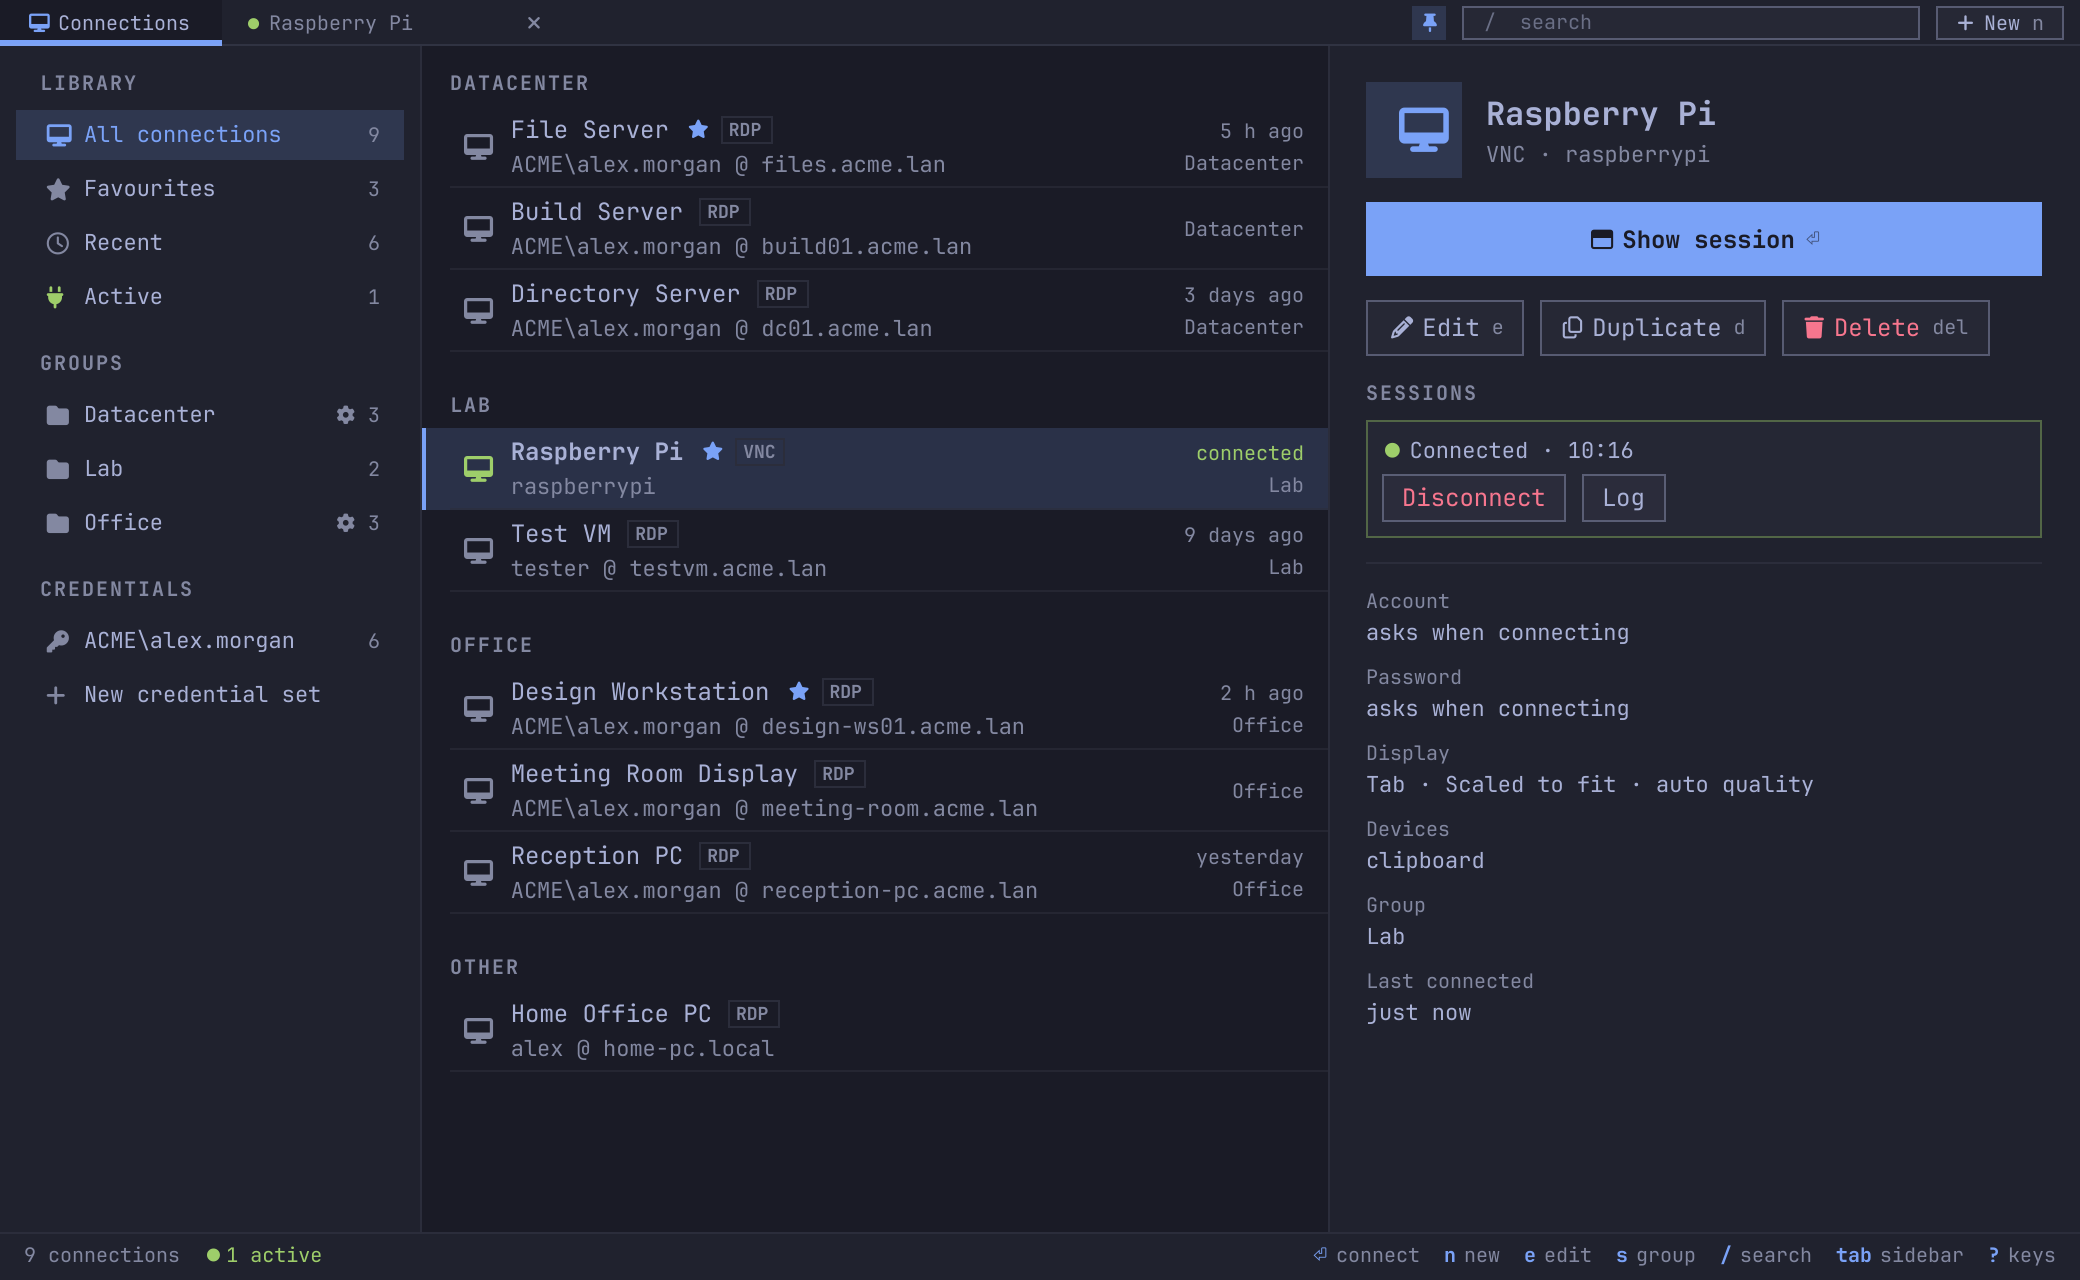
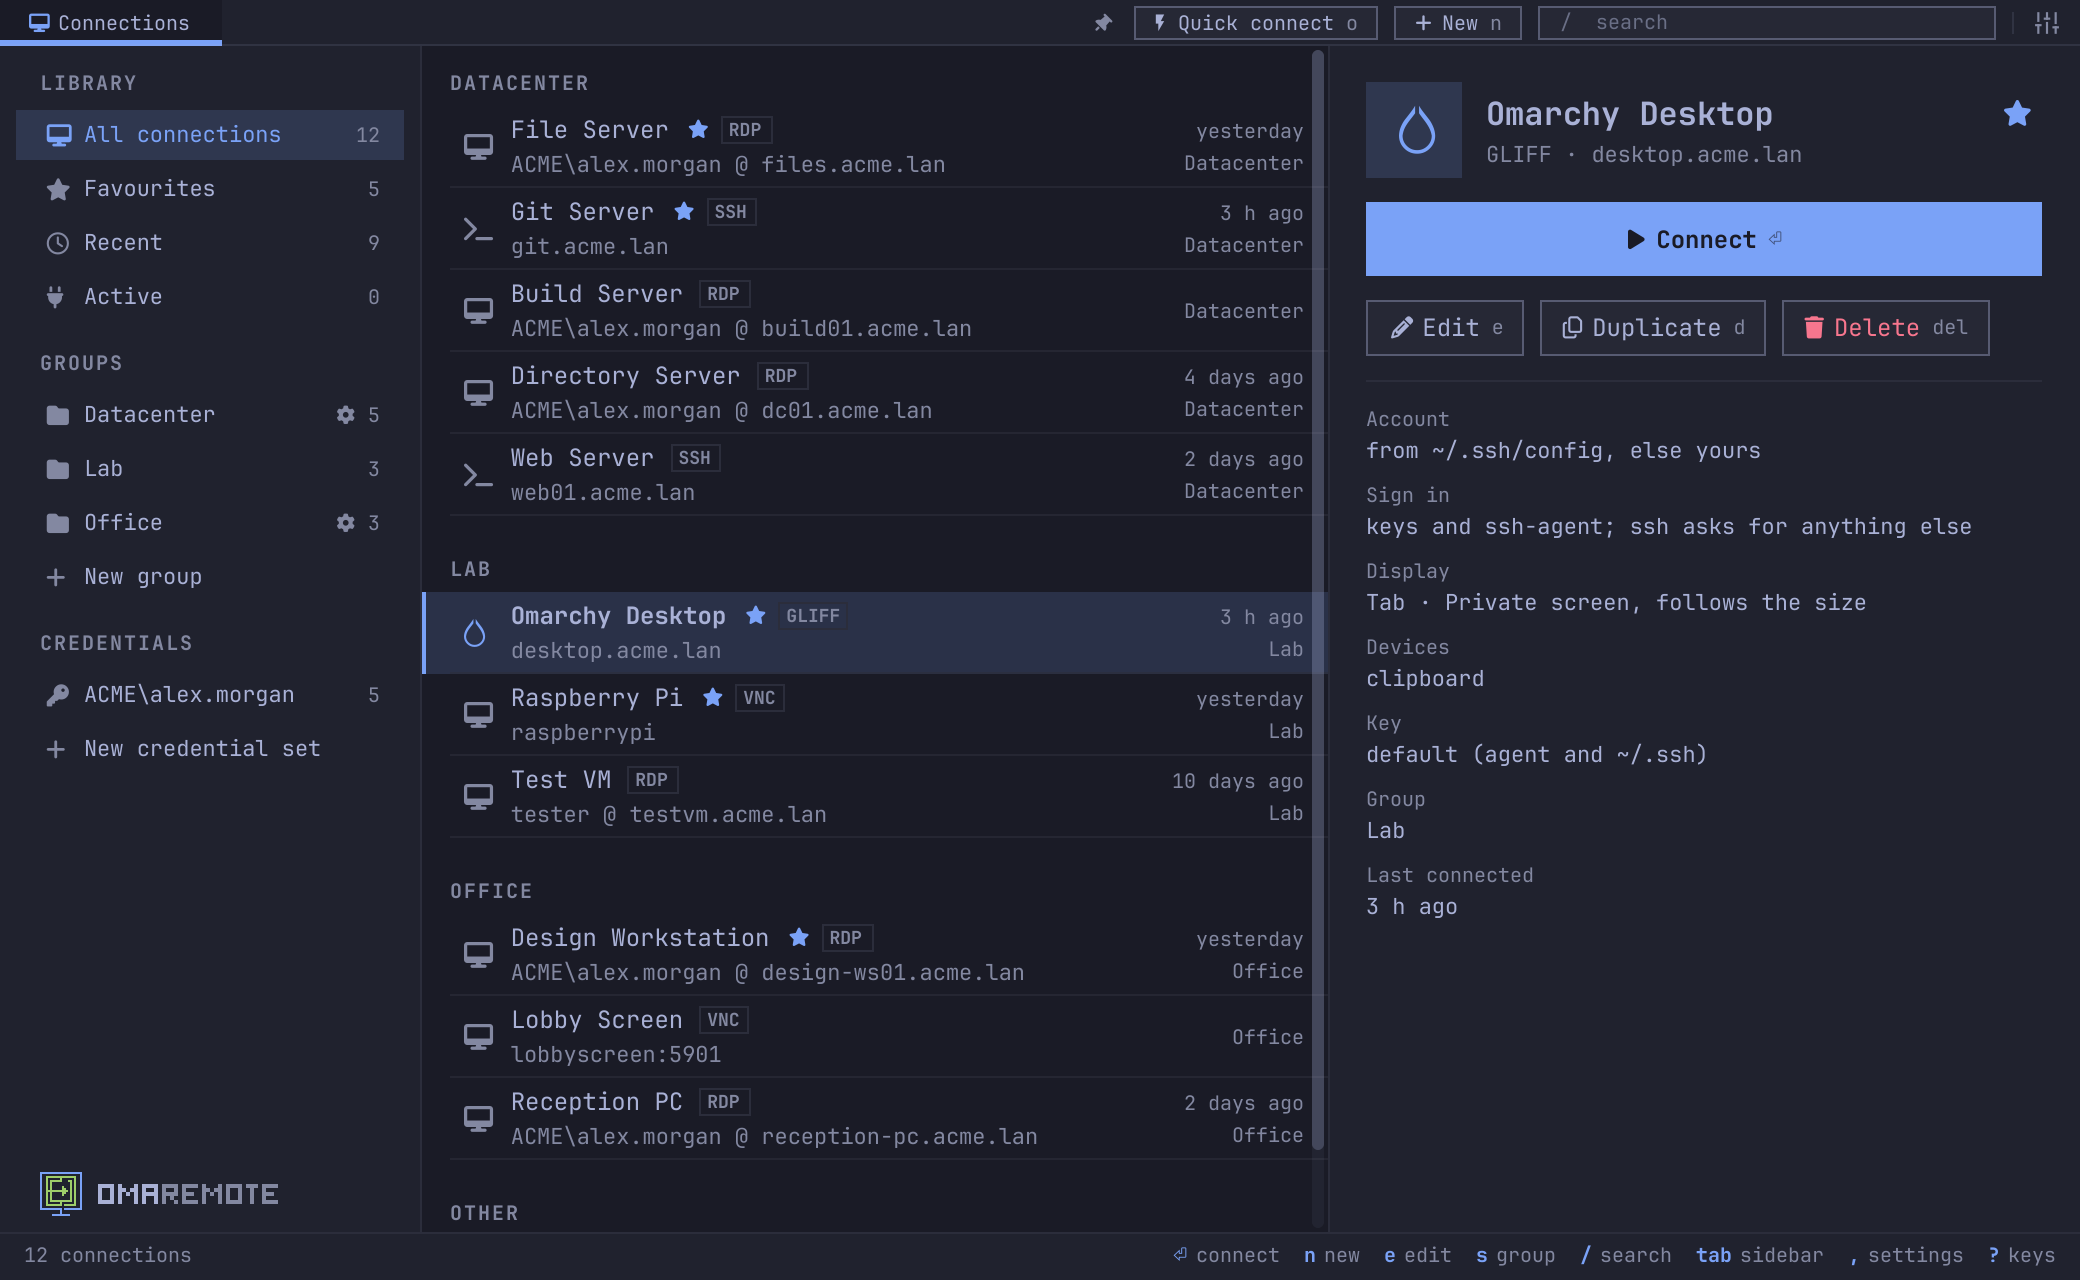
README: Gliff, its known issue with monitor tools, new screenshots
The Gliff section: what it needs on the remote (omarchy pkg add gliff), the options, keys,
clipboard and the bottom bar; monitor tools such as hyprmoncfg reset a private screen (Gliff's own
client too). Screenshots rendered again on sample data with a Gliff connection, plus a real one of
a Gliff tab. debugAction select:<id> for the snapshots.

diff --git a/ui/Body.qml b/ui/Body.qml
@@ -1830,6 +1830,7 @@ FocusScope {
         else if (parts[0] === "filter") filter = parts.slice(1).join(":")
         else if (parts[0] === "create") { startNew(); editor.set("host", parts[1]); editor.set("group", "Lab"); editor.save() }
         else if (parts[0] === "query") query = parts.slice(1).join(":")
+        else if (parts[0] === "select") selectedId = parts[1]
         else if (parts[0] === "scroll") editor.children[0].children[1].contentY = parseInt(parts[1])
     }
 

diff --git a/README.md b/README.md
@@ -6,7 +6,8 @@ A keyboard-first remote desktop client for [Omarchy](https://omarchy.org), style
 
 ![The connections: library, groups and credential sets in the sidebar, connections grouped, details of the selected one](docs/screenshots/connections.png)
 
-- **RDP** through FreeRDP, **VNC** through libvncclient, and **SSH** in a terminal drawn in the tab.
+- **RDP** through FreeRDP, **VNC** through libvncclient, **SSH** in a terminal drawn in the tab, and
+  **Gliff**: another Omarchy machine's Hyprland desktop, streamed over ssh.
 - **Sessions in tabs** inside the app, or (RDP) in their own window for multi-monitor; pin the
   connections list beside them and the remote desktop resizes to fit.
 - **HiDPI scaling** that follows Hyprland: the remote desktop matches the tab's size and your scale.
@@ -23,11 +24,16 @@ left:
 
 ![A VNC session in a tab, with the connections list pinned beside it](docs/screenshots/session-pinned.png)
 
-| Editing a connection; its credentials come from its group | Every key, on `?` |
+| Editing a Gliff connection: a private screen, sharp text | Every key, on `?` |
 | --- | --- |
-| ![Editing a connection that takes its credentials from its group](docs/screenshots/editor.png) | ![The keymap sheet](docs/screenshots/keymap.png) |
+| ![Editing a Gliff connection: its own screen on the remote, sharp 4:4:4 text](docs/screenshots/editor.png) | ![The keymap sheet](docs/screenshots/keymap.png) |
 
-The screenshots use made-up sample data and a mock desktop.
+An Omarchy desktop over Gliff, with the link's health in the bottom bar:
+
+![Another Omarchy machine's desktop in a Gliff tab, its stats in the bottom bar](docs/screenshots/gliff.jpg)
+
+The screenshots use made-up sample data and a mock desktop; the Gliff one is a real Omarchy
+desktop.
 
 ## Install
 
@@ -141,6 +147,7 @@ the packages to install:
 | RDP | `freerdp` (3.x) |
 | VNC | `libvncserver` (for libvncclient) |
 | SSH | `openssh`, `libvterm`, `libxkbcommon` |
+| Gliff | `ffmpeg`, `libva`, `libglvnd`, `libdrm`, `wayland`, `wayland-protocols`, `qt6-shadertools` |
 | optional | `libnotify` (a notification when a session fails) |
 
 `./install.sh --install-deps` installs the missing packages with pacman (it asks first),
@@ -421,6 +428,60 @@ In its own window or a hotkey window it keeps running when you close OMARemote.
   OMARemote's, as in every session.
 - A session that ends normally just closes; one where ssh could not connect shows ssh's reason.
 
+## Gliff
+
+[Gliff](https://github.com/omacom/gliff) streams a Hyprland desktop over ssh, made for Omarchy
+machines. Pick **Gliff** as a connection's protocol: OMARemote speaks Gliff's protocol itself and
+shows the desktop in a tab, on par with Gliff's own client (tested with gliff 0.4.0). This machine
+needs nothing besides OMARemote.
+
+**Gliff must be installed on the computer you connect to**, which runs `gliff-server`. It is set
+to come preinstalled with Omarchy 4.5; until then, install it there yourself. It is in the edge
+channel of the [Omarchy Package Repository](https://github.com/omacom/omarchy-pkgs):
+
+```bash
+omarchy pkg add gliff
+```
+
+If that says `target not found: gliff` (or on Arch without that repository), build it from source
+as [Gliff's README](https://github.com/omacom/gliff#install) explains:
+`git clone https://github.com/omacom/gliff.git && cd gliff && bin/install`. That computer must also
+accept ssh from yours, as for an SSH connection.
+
+- **Sign in** is ssh, as for SSH connections: your keys, ssh-agent and `~/.ssh/config`, a key per
+  connection, *Extra ssh options*. OMARemote runs `ssh … gliff-server --stdio` and nothing else.
+- **Screen**: *Mirror* shows a remote screen as it is (*Screen name*, or empty for the focused
+  one); *Private screen* gives the tab a screen of its own on the remote that follows the tab's size
+  and scale, and goes away when you disconnect.
+- **Sharp text**: with VA-API here and a GPU-encoding remote, the picture is 4:4:4 (two H.264
+  streams recombined, as Gliff does); *Colour* can ask *Low bandwidth* (4:2:0) or *Full 4:4:4*.
+  Pictures go from the decoder to the screen as GPU buffers, without a copy; *Decoding: CPU* is
+  there for a GPU driver that misbehaves.
+- **Keys**: your own keyboard layout goes along. While the tab has the keyboard and the pointer is
+  on the picture, the tab takes Hyprland's shortcuts, `super` included, as Gliff's own client does.
+  Moving the pointer off gives them back, and so do `ctrl+alt+esc` and `shift+esc` (Settings ›
+  Keyboard: or *Double Esc*, or nothing else); a click takes them again.
+- **Clipboard** both ways, text, images and files: nothing moves until you paste, slow pastes show
+  their progress with a cancel button, files land in `~/.cache/omaremote/clipboard/`. It is shared
+  only while the tab has the keyboard, and never a password manager's selection.
+- **A dropped link** is tried again five times, from 1 to 16 seconds apart.
+- **The bottom bar** shows the link's health and as many facts as fit: a green dot, orange when the
+  server is congested or the round trip is slow, red when the server does not answer or while
+  reconnecting. A click shows everything: round trip, frame rate, bandwidth, decoding, stream.
+  The frame rate drops on a still screen: Gliff only sends a picture when the screen changes.
+- **Known issue: monitor tools on the remote.** A tool that manages monitors on the remote machine,
+  such as the [hyprmoncfg](https://github.com/crmne/omarchy-hyprmoncfg) plugin (its daemon
+  `hyprmoncfgd`) or another monitor profile plugin, can treat a *Private screen* as an unknown
+  display and change it (hyprmoncfg sets it to 1920x1080) right after it appears; gliff-server then
+  stalls and the picture stops. This is between Gliff and that tool: Gliff's own client has the same
+  problem. *Mirror* is not affected. Until it is fixed, use *Mirror*, or stop the tool on the remote
+  while you connect (for hyprmoncfg: `systemctl --user stop hyprmoncfgd`). A stalled gliff-server
+  that is stopped can leave its screen (`gliff-<number>`) behind on the remote:
+  `hyprctl output remove gliff-<number>` takes it away.
+- *Capture: Read back* is for a remote VM whose screen stays black; *Server* is gliff-server's
+  path when it is not on the remote's `PATH`. Both, like *Screen name*, only take plain names: they
+  reach the remote shell.
+
 ## How it works
 
 ```
@@ -430,6 +491,7 @@ bin/omaremote-session    backend: session settings, keyring, Kerberos discovery,
 native/rdp/              omaremote-rdp: an RDP session for a tab (libfreerdp)
 native/vnc/              omaremote-vnc: a VNC session for a tab (libvncclient)
 native/ssh/              omaremote-ssh: an SSH session for a tab (ssh in a pty, libvterm, drawn with Qt)
+native/gliff/            omaremote-gliff: a Gliff session for a tab (Gliff's protocol, H.264 via libavcodec/VA-API)
 native/common/           the link both share with the UI
 native/plugin/           RdpView, the Qt Quick item that shows a session in a tab
 ```
@@ -438,7 +500,9 @@ native/plugin/           RdpView, the Qt Quick item that shows a session in a ta
 Each session is its own process, so one crashing never takes the window or other tabs with it:
 
 - libfreerdp or libvncclient renders into a shared-memory framebuffer (memfd); for SSH,
-  omaremote-ssh runs ssh in a pseudo-terminal and draws libvterm's screen into one;
+  omaremote-ssh runs ssh in a pseudo-terminal and draws libvterm's screen into one; omaremote-gliff
+  hands over its decoder's pictures as dmabufs, which the tab converts on the GPU (or, without
+  VA-API, a framebuffer like the others);
 - the UI attaches over a Unix socket in `$XDG_RUNTIME_DIR/omaremote/sessions/`, receives that
   framebuffer as a file descriptor plus damage rectangles, and sends input back: keys (scancodes
   for RDP, keysyms for VNC, keysyms and typed text for SSH), mouse, wheel, text clipboard, and resizes with the HiDPI scale;
@@ -458,8 +522,8 @@ running program, so OMARemote never puts a connection's name, host, user name or
 one: sessions read their settings from stdin, keyring entries are labelled by id, a failure
 notification says only that a connection failed (which one, and why, is in OMARemote), the
 Kerberos DNS lookup runs in-process, and the Omarchy bar plugin and hotkey bindings name
-connections by id. One exception: an SSH session runs `ssh` itself, whose command line holds the
-host (and the user name, port and key when set), the same as typing `ssh` in a terminal; *Browse
+connections by id. One exception: an SSH or Gliff session runs `ssh` itself, whose command line
+holds the host (and the user name, port and key when set), the same as typing `ssh` in a terminal; *Browse
 files* likewise runs `gio mount sftp://user@host`. To keep
 other accounts out of `/proc` altogether, mount it with `hidepid=invisible`.
 
